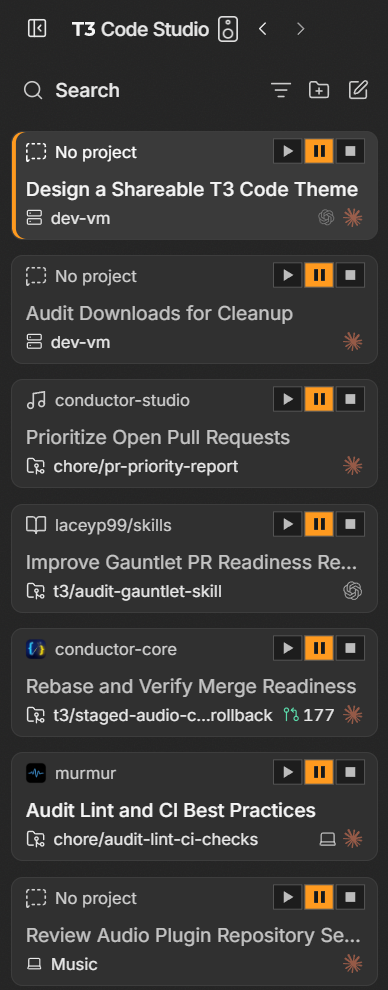
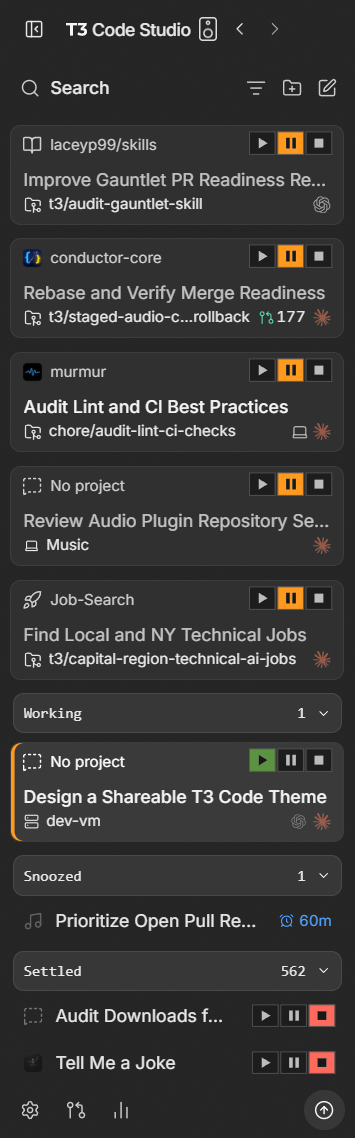
docs: show working, snoozed and settled shelves in sidebar screenshot

diff --git a/README.md b/README.md
@@ -8,7 +8,7 @@ A dark, music-studio theme for T3 Code. Charcoal panels, a speaker-grille backgr
 
 ![New thread](images/new-thread.png)
 
-**Sidebar.** A screenshot from T3 Code: the "T3 Code Studio" brand with its speaker icon, chevron arrows, grey thread cards with the play / pause / stop strip, and the open thread's orange edge.
+**Sidebar.** A screenshot from T3 Code: the "T3 Code Studio" brand with its speaker icon, chevron arrows, and grey thread cards with the play / pause / stop strip. Pause is lit orange on idle threads, play green on the running thread under **Working**, and stop red on rows under **Settled**. The open thread has an orange left edge, and the **Snoozed** shelf sits between them.
 
 ![Sidebar](images/sidebar.png)
 
